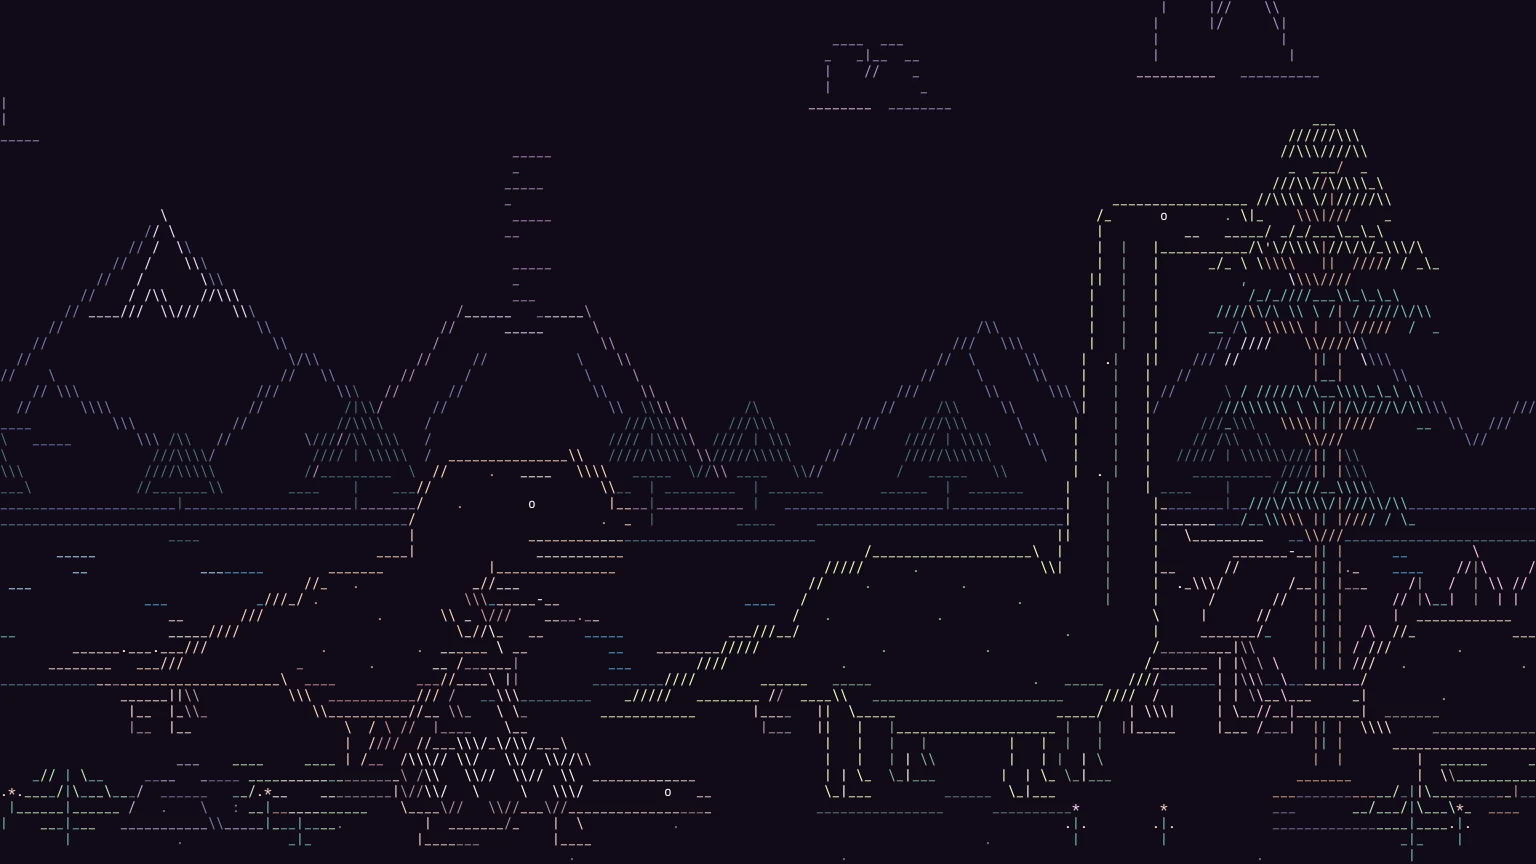
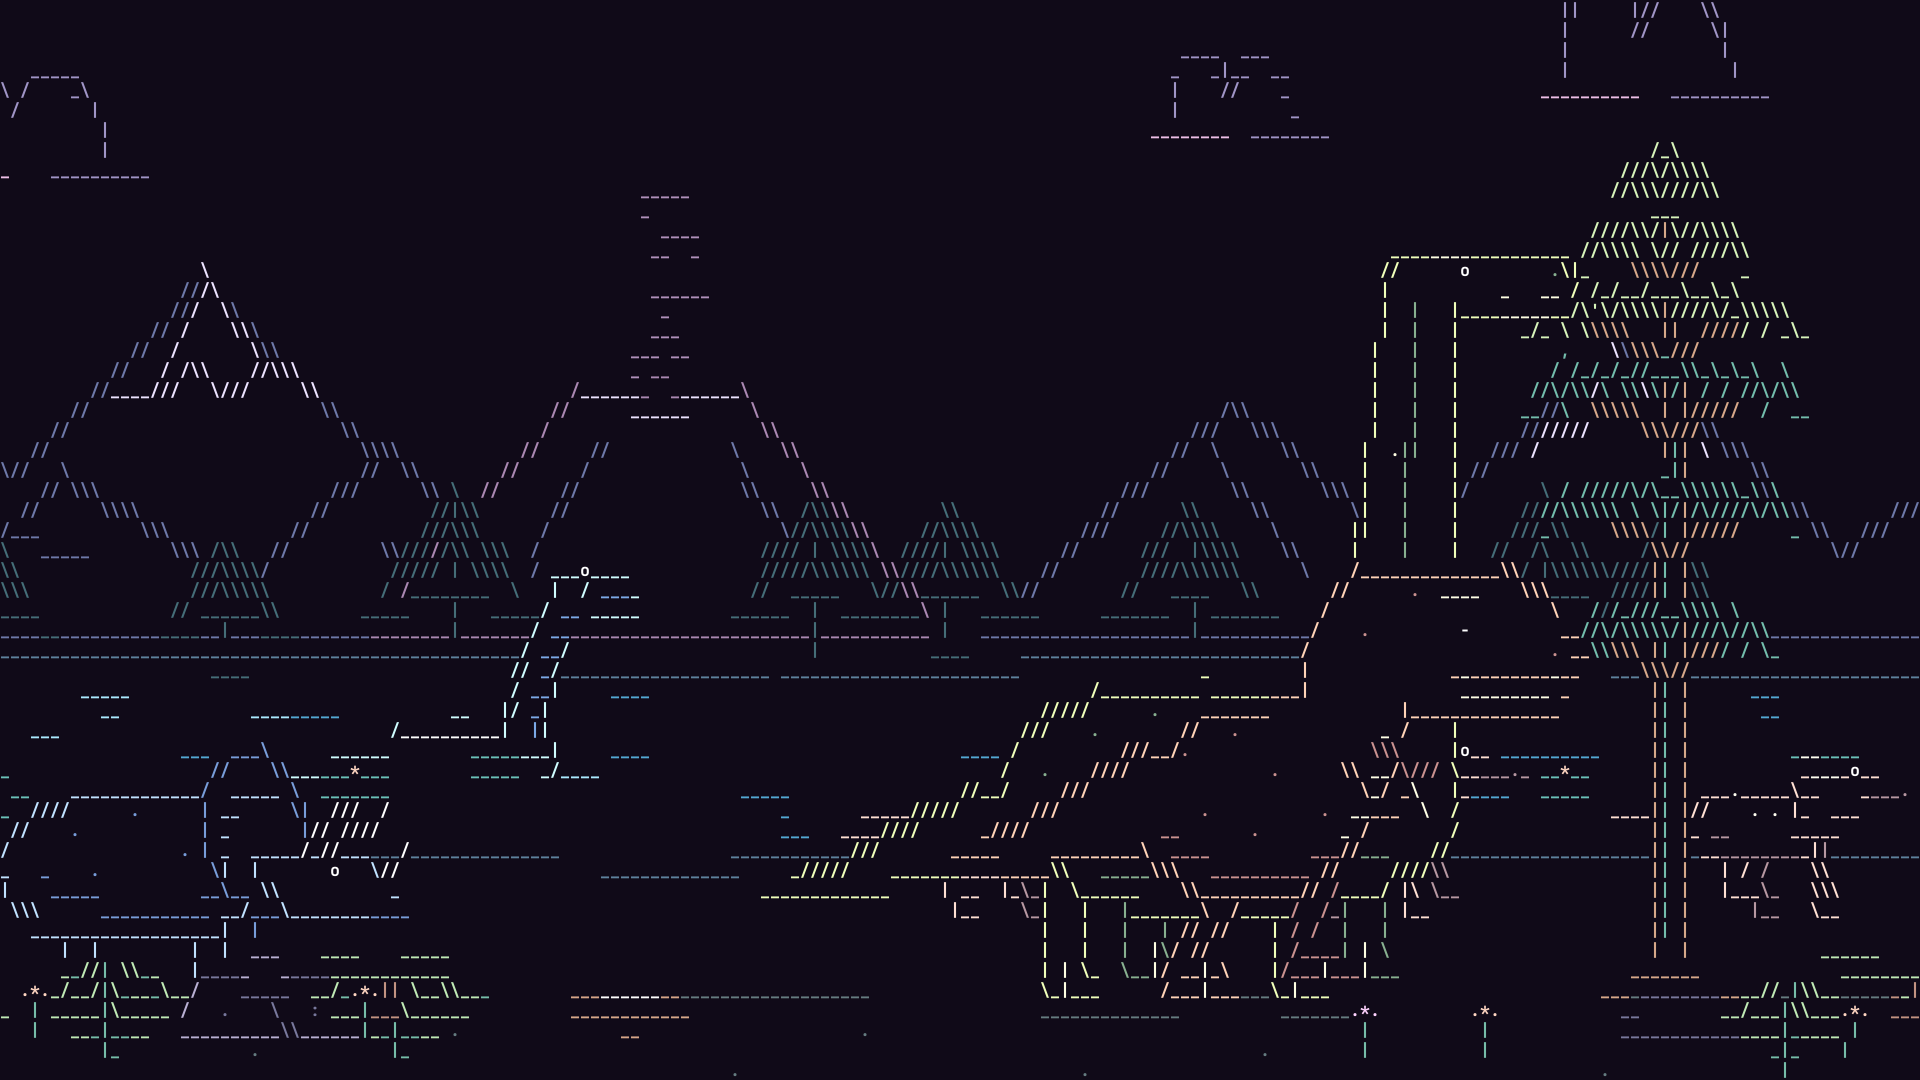
Publish 1920x1080 production-canvas website captures

diff --git a/site/index.html b/site/index.html
@@ -24,7 +24,7 @@
   <meta name="twitter:image:alt" content="Omarchasaurus, an ASCII dinosaur valley for Omarchy Quattro">
   <link rel="icon" type="image/svg+xml" href="./assets/favicon.svg">
   <link rel="stylesheet" href="./styles.css?v=inline-players">
-  <script src="./main.js?v=inline-players" defer></script>
+  <script src="./main.js?v=full-hd-captures" defer></script>
 </head>
 <body>
   <a class="skip-link" href="#main">Skip to content</a>
@@ -47,8 +47,8 @@
       </div>
       <figure class="valley-frame" id="valley">
         <div class="frame-toolbar"><span class="eyebrow"><span class="frame-cross" aria-hidden="true">+</span> Field observation / 001</span><div id="palette-controls" class="palette-controls" role="group" aria-label="Artwork palette" hidden><button type="button" data-palette="morning" aria-pressed="true" aria-controls="valley-image">Morning</button><button type="button" data-palette="dusk" aria-pressed="false" aria-controls="valley-image">Dusk</button></div><span class="frame-format">ASCII / TRUECOLOR</span></div>
-        <div class="valley-image-wrap"><img id="valley-image" src="./assets/valley-morning.webp" width="1536" height="864" fetchpriority="high" alt="Morning palette production capture of the ASCII dinosaur valley, with character-drawn dinosaurs, mountains, trees, clouds and a lake."></div>
-        <figcaption><span><span class="caption-marker" aria-hidden="true">↳</span> Actual production-canvas capture. Not a browser game.</span><span id="palette-caption" aria-live="polite" aria-atomic="true">Morning palette / static artwork</span></figcaption>
+        <div class="valley-image-wrap"><img id="valley-image" src="./assets/valley-morning.webp?v=1920x1080" width="1920" height="1080" fetchpriority="high" alt="Morning palette production capture of the ASCII dinosaur valley, with character-drawn dinosaurs, mountains, trees, clouds and a lake."></div>
+        <figcaption><span><span class="caption-marker" aria-hidden="true">↳</span> Actual 1920 × 1080 production-canvas capture. Not a browser game.</span><span id="palette-caption" aria-live="polite" aria-atomic="true">Morning palette / static artwork</span></figcaption>
       </figure>
       <div class="hero-footnote"><span>Real terminal. Original strokes.</span><span>No image protocol. No separate GPU scene.</span><span class="hero-footnote-end">Made to be stumbled upon.</span></div>
     </section>

diff --git a/site/main.js b/site/main.js
@@ -7,12 +7,12 @@ const paletteCaption = document.getElementById("palette-caption");
 const palettes = {
   morning: {
     name: "Morning",
-    source: "./assets/valley-morning.webp",
+    source: "./assets/valley-morning.webp?v=1920x1080",
     alt: "Morning palette production capture of the ASCII dinosaur valley, with character-drawn dinosaurs, mountains, trees, clouds and a lake."
   },
   dusk: {
     name: "Dusk",
-    source: "./assets/valley-dusk.webp",
+    source: "./assets/valley-dusk.webp?v=1920x1080",
     alt: "Dusk palette production capture of the ASCII dinosaur valley, with character-drawn dinosaurs, mountains, trees, clouds and a lake."
   }
 };

diff --git a/README.md b/README.md
@@ -267,7 +267,7 @@ The public repository excludes historical desktop captures, development-agent in
 
 **[Visit the project website](https://daileng.github.io/Omarchasaurus/)** for the age-friendly nine-animal field guide, name pronunciations, museum resources, Morning/Dusk artwork viewer and installation overview.
 
-The website is plain HTML, CSS and JavaScript in `site/`, with no build step, external fonts, analytics or browser storage. Its artwork comes from the production character canvas; the palette viewer is not a browser port of the simulation.
+The website is plain HTML, CSS and JavaScript in `site/`, with no build step, external fonts, analytics or browser storage. Its Morning/Dusk images are fresh **1920×1080 lossless WebP captures** of the production 192×54 character canvas, displayed responsively with the complete 16:9 frame visible—not upscaled copies of older images. The palette viewer is not a browser port of the simulation.
 
 Name clips are self-hosted and play only when requested. Each animal card has a visible embedded player: play, pause and replay stay on the guide, even without JavaScript. With JavaScript enabled, starting another name pauses the previous clip. Written syllable guides remain alongside the players. These are readings of animal names, **not dinosaur calls**; the terminal plugin itself remains silent. Browser playback fetches the selected clip from this GitHub Pages site, not a third-party speech API. Audio provenance and licenses are listed in [pronunciation credits](site/assets/pronunciation/ATTRIBUTION.md). Linked museums are independent websites with their own accessibility and privacy practices.
 
